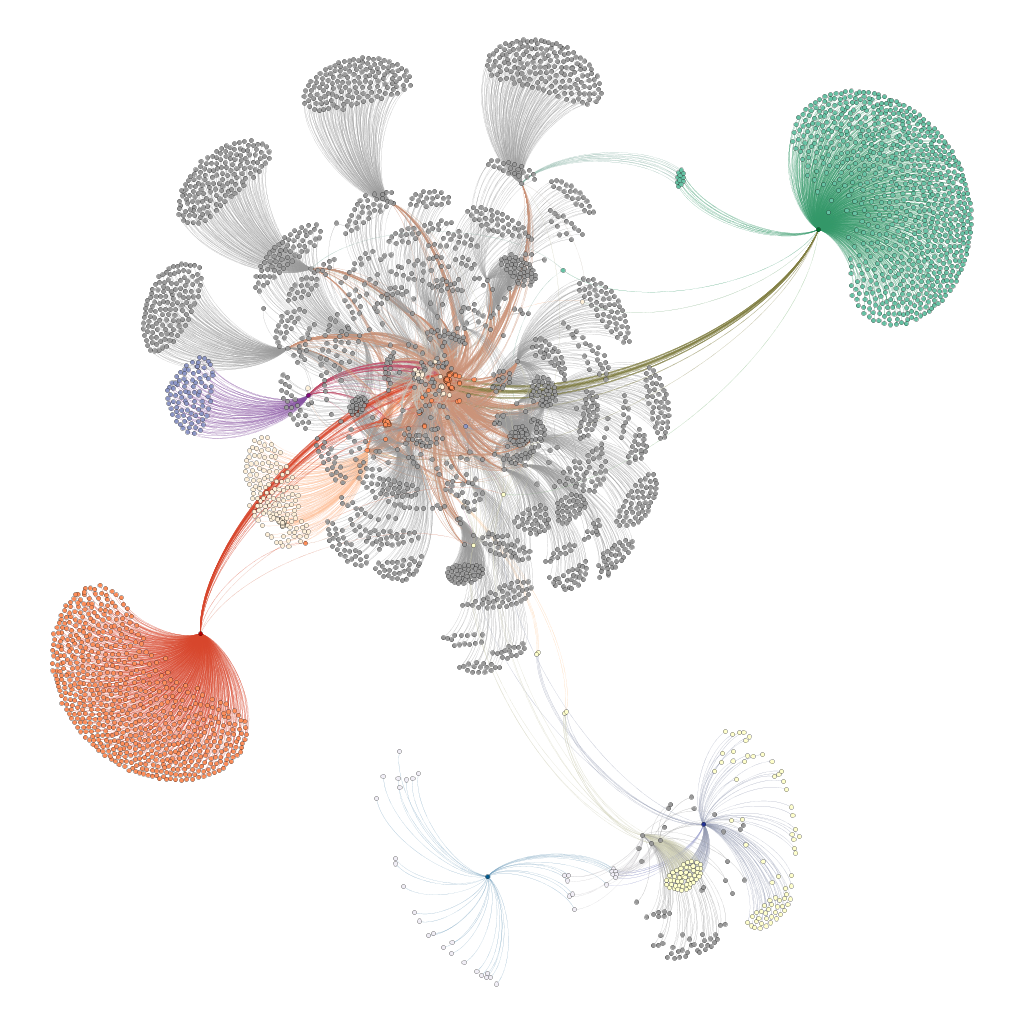
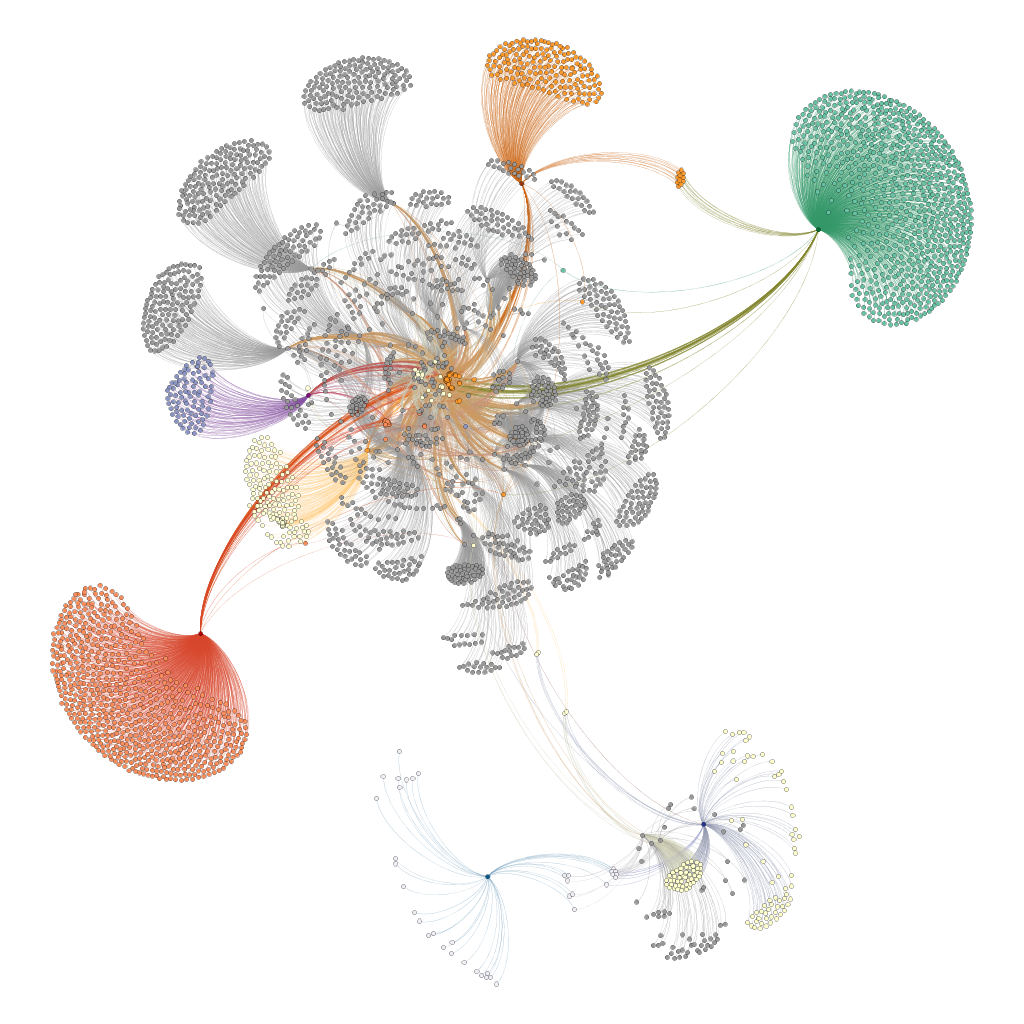
almost done with assignment 4, needs a little more writeup for Q3

diff --git a/assignment4/assignment4.tex b/assignment4/assignment4.tex
@@ -171,11 +171,28 @@ The graph described by the dot file in Question 2 contains $4276$ nodes and $114
 
 From Gephi, visualizing the graph produced a horrid monstrosity shown in Figure \ref{fig:q3vis-hairball}.  Choosing all of my links from CNN is what led to this.  The shaving on the right and left are not actually unconnected edges.  Gephi appears to have cropped the image on export.
 
-After using the \emph{Yifan Hu} layout, the graph became the much better, as shown in Figure \ref{fig:q3vis-yifan-hu}.  It turns out that each of the subgraphs in the CNN graph somewhat correspond to parts of the CNN site (and outbound links).  Some of these have been colorized to demonstrate this phenomenon.  Green corresponds to URIs with \verb+eatocracy.cnn.com+, red-orange is \verb+ac360.blogs.cnn.com+, purple is \verb+crossfire.blogs.cnn.com+.  The blue-yellow and violet-yellow groups on the lower left part of the graph correspond to \verb+fortune.cnn.com+ and \verb+money.cnn.com+ respectively.  Unfortunately, Gephi did not have enough colors to convey all of the subgroups.
+After using the \emph{Yifan Hu} layout, the graph became the much better, as shown in Figure \ref{fig:q3vis-yifan-hu}.  It turns out that each of the subgraphs in the CNN graph somewhat correspond to parts of the CNN site (and outbound links).  Some of these have been colorized to demonstrate this phenomenon.  
+
+\begin{itemize}
+\item brown-orange corresponds to \verb+religion.blogs.cnn.com+
+\item green corresponds to URIs with \verb+eatocracy.cnn.com+
+\item red-orange is \verb+ac360.blogs.cnn.com+
+\item purple is \verb+crossfire.blogs.cnn.com+
+\item blue-yellow is \verb+fortune.cnn.com+
+\item violet-yellow is \verb+money.cnn.com+
+\end{itemize}
+
+This does convey some interesting phenomenon.  The nodes in the center are the typical menu links found on each page, but there are 10 nodes shared between the brown-orange group and the green group, which turn out to be menu items shared between \verb+eatocracy.cnn.com+ and \verb+religion.blogs.cnn.com+, but not used anywhere else.
+
+Unfortunately, Gephi did not have enough colors to convey all of the subgroups.
 
 All of CNN's pages link to the same template menu links, which explains much of the strongly connected parts.  I expected most of the pages to link to pages in the center of the graph, but I did not expect this much ``clumping''.
 
-Because of this clumping Figure \ref{fig:q3hits-authorities} shows low authority scores on all pages, and Figure \ref{fig:q3hits-hubs} shows what look to be four hubs, but are likely so many data points crammed into these four scores.  Also, the PageRank for all pages approaches $0$, as shown in Figure \ref{fig:q3pagerank} because so many of the pages link to one another.
+Because of the clumping Figure \ref{fig:q3hits-authorities} shows low authority scores on all pages, and Figure \ref{fig:q3hits-hubs} shows what look to be four hubs, but are likely so many data points crammed into these four scores.  Also, the PageRank for all pages approaches $0$, as shown in Figure \ref{fig:q3pagerank} because so many of the pages link to one another.
+
+As shown in Figure \ref{fig:q3avgdegree-indegree-distribution}, few nodes have a high in-degree.  These are likely menu options, with those with a small in-degree being actual stories.  Surprisingly, Figure \ref{fig:q3avgdegree-outdegree-distribution} shows that a lot of pages do seem to link out, but in an almost horizontal linear pattern.
+
+
 
 \begin{figure}[p]
 \includegraphics[scale=0.3]{q3/Visualized/visualized.png}
